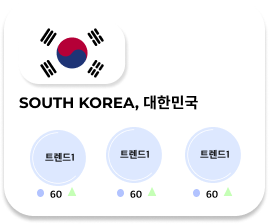
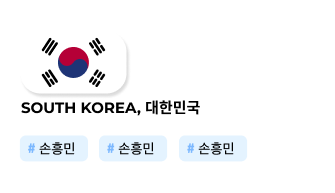
feat: 🎸 #49 온보딩 지구본 나라카드 변경
✅ Closes: #49

diff --git a/front/src/pages/Onboarding/index.jsx b/front/src/pages/Onboarding/index.jsx
@@ -12,8 +12,7 @@ import Page5 from "./Page5";
 import Dots from "./Dots";
 import Marker from "assets/marker.jpg";
 import Earth from "assets/earthmap_color.png";
-import { FontAwesomeIcon } from "@fortawesome/react-fontawesome";
-import { faMoon } from "@fortawesome/free-solid-svg-icons";
+import Countrycard from "assets/country-card.jpg";
 import DarkToggle from "components/DarkToggle";
 
 export default function Onboarding() {
@@ -195,6 +194,12 @@ export default function Onboarding() {
         />
       </div>
       <img src={Marker} alt="marker" className="marker" ref={marker} />
+      <img
+        src={Countrycard}
+        alt="countrycard"
+        className="countrycard"
+        ref={countrycard}
+      />
       <div className="main-item">
         <Page1
           scrollIdx={scrollIdx}
